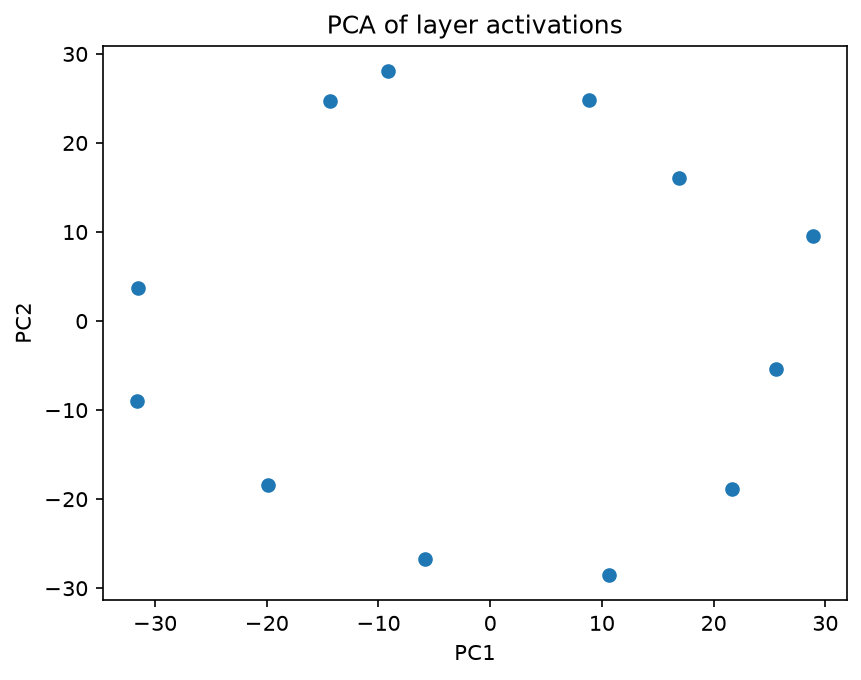
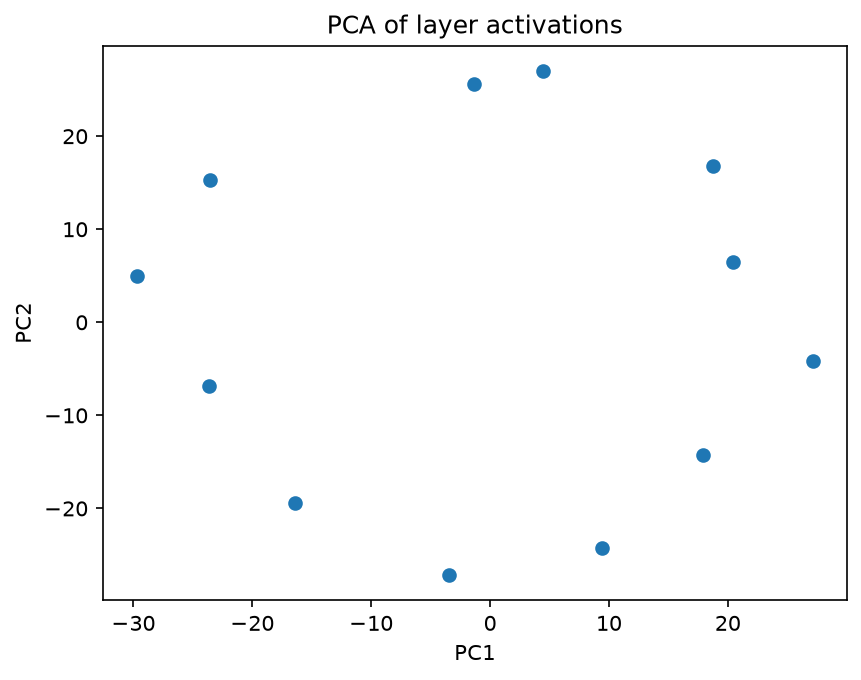
updated null_cloud.py

diff --git a/workingcodebase/null_cloud.py b/workingcodebase/null_cloud.py
@@ -35,16 +35,15 @@ class Manifold:
               manifold can build its own null with no forward passes.
     """
 
-    def __init__(self, pipeline, pos_acts, neg_acts, cloud=None,
+    def __init__(self, pipeline, opt_activations, cloud=None,
                  label="concept", seed=0, eps_density=0.10, var_threshold=0.95):
         self.pipeline = pipeline
-        self.pos = np.asarray(pos_acts)
-        self.neg = np.asarray(neg_acts)
+        self.opt_activations = np.asarray(opt_activations)
         self.label = label
         self.rng = np.random.default_rng(seed)
         self.eps_density = eps_density
         self.var_threshold = var_threshold
-        self.cloud = self.pos - self.neg if cloud is None else np.asarray(cloud)
+        self.cloud = self.opt_activations if cloud is None else np.asarray(cloud)
         self._measure()
 
     def _measure(self):
@@ -73,7 +72,7 @@ class Manifold:
         curv = self.pipeline.compute_ollivier_ricci(graph)
         self.curvature_values = np.asarray(curv["raw_values"], dtype=float)
 
-    def null(self, kind="shuffled"):
+    def null(self, kind="noise"):
         """A null of this manifold, measured identically.
 
         shuffled: break the pos/neg pairing only -- everything else identical.
@@ -81,20 +80,23 @@ class Manifold:
                   whether the pairing did any work.
         noise:    Gaussian with this cloud's own mean and covariance.
         """
+        
+        """
+        Commit updates (Cameron):
+        I removed the shuffled option since we only have 1 set of activations and are not doing contrastive difference anymore.
+        Now we use noise, which per the above statement samples from a gaussian distribution of a single cloud's mean and covariance
+        """
+        
+        
         n = len(self.cloud)
 
-        if kind == "shuffled":
-            perm = self.rng.permutation(n)
-            while np.any(perm == np.arange(n)):        # no accidental true pairs
-                perm = self.rng.permutation(n)
-            cloud = self.pos - self.neg[perm]
-        elif kind == "noise":
-            cov = np.cov(self.cloud.T) + 1e-6 * np.eye(self.cloud.shape[1])
-            cloud = self.rng.multivariate_normal(self.cloud.mean(0), cov, n)
+        if kind == "noise":
+            cov = np.cov(self.cloud.T) + 1e-6 * np.eye(self.cloud.shape[1]) #np.eye returns a identity matrix
+            cloud = self.rng.multivariate_normal(self.cloud.mean(0), cov, n) #cloud is composed of samples of length
         else:
             raise ValueError(f"unknown null kind: {kind}")
 
-        return Manifold(self.pipeline, self.pos, self.neg, cloud=cloud,
+        return Manifold(self.pipeline, self.opt_activations, cloud=cloud,
                         label=f"null:{kind}", seed=int(self.rng.integers(1 << 30)),
                         eps_density=self.eps_density, var_threshold=self.var_threshold)  #null(manifold) returns manifold of its null
 

diff --git a/workingcodebase/pipeline_draft.py b/workingcodebase/pipeline_draft.py
@@ -113,13 +113,13 @@ class Pipeline():
         #Visualization only: 3-D projection
         X = final_activations.detach().cpu().numpy() if isinstance(final_activations, torch.Tensor) else final_activations
         projected = PCA(n_components=3).fit_transform(X)
-
-        plt.figure()
-        plt.scatter(projected[:, 0], projected[:, 1], projected[:, 2])
-        plt.xlabel('PC1')
-        plt.ylabel('PC2')
-        plt.zlabel('PC3')
-        plt.title('3D PCA of layer activations')
+        fig = plt.figure()
+        ax = fig.add_subplot(projection='3d')
+        ax.scatter(projected[:, 0], projected[:, 1], projected[:, 2])
+        ax.set_xlabel('PC1')
+        ax.set_ylabel('PC2')
+        ax.set_zlabel('PC3')
+        ax.set_title('3D PCA of layer activations')
         plt.savefig('pca_projection.png', dpi=150, bbox_inches='tight')
         print('Saved PCA plot to pca_projection.png')
         plt.show()

diff --git a/workingcodebase/topology_metric.py b/workingcodebase/topology_metric.py
@@ -29,7 +29,7 @@ Metric = namedtuple("Metric", ["dimension", "topology", "curvature"])
 
 class TopologyMetric:
 
-    def __init__(self, manifold, kind="shuffled", n_null=1, max_dim=1):
+    def __init__(self, manifold, kind="noise", n_null=1, max_dim=1):
         # n_null > 1: average over independent null draws -- each is one draw
         # from the null distribution, so averaging reduces single-draw variance.
         # manifold.null() reseeds from the manifold's rng, so draws differ.
